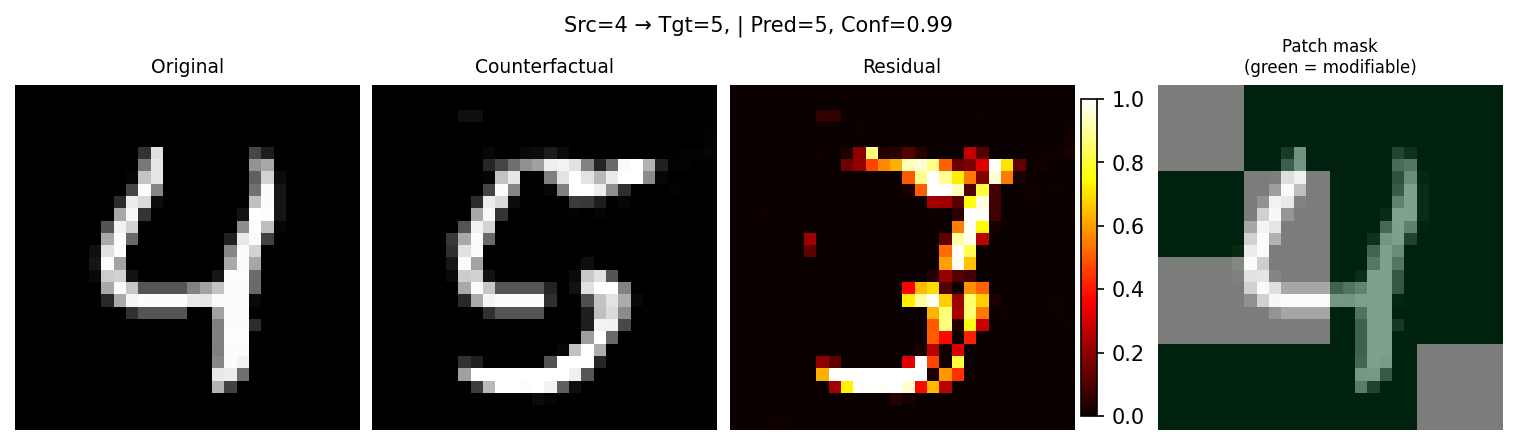
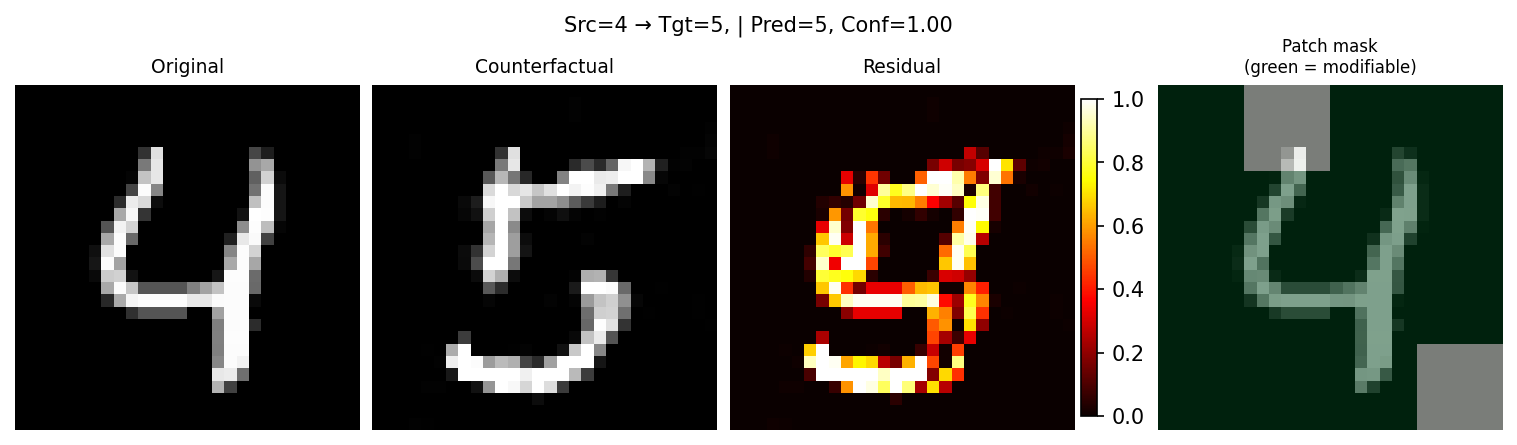
mnist gradio works with regex parser

diff --git a/conditional_counteRGAN/mnist/gradio_app.py b/conditional_counteRGAN/mnist/gradio_app.py
@@ -1,0 +1,313 @@
+#!/usr/bin/env python3
+import os
+import json
+import re
+import random
+import torch
+import torchvision
+from torchvision import transforms, datasets
+import gradio as gr
+import numpy as np
+from typing import Tuple, List, Optional
+from config import Config as cfg
+
+# optional: LLM client
+try:
+    import openai
+except Exception:
+    openai = None
+
+# Import your eval utils (assumes eval_utils.py is in same folder / on PYTHONPATH)
+import eval_utils as eval
+
+# --- Configuration (adjust or read from config.py) ---
+PATCH_SIZE = cfg.patch_size                 # your working patch size (7 -> 4x4 grid)
+MIN_MODIFIABLE = cfg.min_modifiable_patches                # minimum patches if user doesn't choose enough
+MAX_MODIFIABLE = cfg.max_modifiable_patches             # optional cap (None -> half)
+DEVICE = cfg.device
+
+# MNIST dataset (unpadded, same transforms your pipeline expects)
+transform = transforms.Compose([
+        transforms.ToTensor(),
+        transforms.Normalize((0.5,), (0.5,))  # [-1,1]
+    ])
+
+mnist_test = datasets.MNIST(cfg.data_dir, train=False, transform=transform, download=False)
+
+# Utility to pick a sample for a given source digit
+def pick_sample_by_digit(dataset, digit: int, seed: Optional[int]=None) -> Tuple[torch.Tensor, int]:
+    if seed is not None:
+        random.seed(seed)
+    indices = [i for i, t in enumerate(dataset.targets) if int(t) == int(digit)]
+    if not indices:
+        raise ValueError("No sample of that digit found.")
+    idx = random.choice(indices)
+    img, label = dataset[idx]
+    # img is normalized (-1,1) as your pipeline expects
+    return img.unsqueeze(0), int(label)        # shape (1,1,28,28), label
+
+# Simple fallback parser for user free-text: extracts first digit as target and list of ints as patches
+def parse_user_input_fallback(text: str, total_patches: int) -> Tuple[int, List[int], str]:
+    text_lower = text.lower()
+    # Try explicit 'target' or 'to' phrase first
+    target_match = re.search(r"(?:target|to)\s*([0-9])", text_lower)
+    if target_match:
+        target = int(target_match.group(1))
+    else:
+        # fallback: first digit that appears
+        digits = re.findall(r"\b([0-9])\b", text)
+        target = int(digits[0]) if digits else None
+
+    # Extract patch numbers after keyword 'patch' (if present)
+    patch_section = re.split(r"patch(?:es)?", text_lower)
+    if len(patch_section) > 1:
+        patch_text = patch_section[1]
+    else:
+        patch_text = text_lower
+    patch_candidates = re.findall(r"\b([0-9]{1,2})\b", patch_text)
+    patches_int = [int(p) for p in patch_candidates if 0 <= int(p) < total_patches]
+
+    if target is None:
+        return None, [], "Couldn't detect a target digit. Please include a digit 0–9 as the desired target."
+    if len(patches_int) == 0:
+        return target, [], "No patch indices detected — choosing random allowed patches."
+    return target, sorted(list(set(patches_int))), ""
+
+
+# LLM parsing helper (optional). Returns (target:int, patches:list, message:str)
+def parse_user_input_llm(user_text: str, total_patches: int) -> Tuple[Optional[int], List[int], str]:
+    # If openai not available, fall back
+    if openai is None or os.environ.get("OPENAI_API_KEY", "") == "":
+        return parse_user_input_fallback(user_text, total_patches)
+
+    openai.api_key = os.environ["OPENAI_API_KEY"]
+    # prompt instructing the model to return JSON only
+    prompt = f"""
+You are a strict parser. Input is a short user instruction answering:
+  "Into which digit do you want to transform this?" and "Which patch numbers are allowed (list)?"
+
+Return a single JSON object on the reply ONLY with the keys:
+  "target": integer between 0 and 9,
+  "patches": array of integers (each between 0 and {total_patches-1}).
+
+If the user does not provide patches, return an empty list for "patches".
+If the target isn't present, set "target": null.
+
+Do not include any commentary. Example output:
+  {{ "target": 3, "patches": [1,5,6] }}
+Now parse this user message:
+---
+{user_text}
+"""
+    try:
+        resp = openai.ChatCompletion.create(
+            model="gpt-4o-mini",   # choose a small/reasonable model; change as needed
+            messages=[{"role":"user","content":prompt}],
+            max_tokens=150,
+            temperature=0.0
+        )
+        text = resp["choices"][0]["message"]["content"].strip()
+        # Attempt to load JSON
+        obj = json.loads(text)
+        target = obj.get("target", None)
+        patches = obj.get("patches", [])
+        # validate
+        patches_valid = [int(p) for p in patches if isinstance(p, (int,float)) or (isinstance(p,str) and p.isdigit())]
+        patches_valid = [p for p in patches_valid if 0 <= p < total_patches]
+        return int(target) if target is not None else None, patches_valid, ""
+    except Exception as e:
+        return parse_user_input_fallback(user_text, total_patches)  # fallback with helpful message
+
+# Helper to build mask from explicit list of patches (returns batch_mask, single_mask)
+def make_mask_from_patch_list(x_batch: torch.Tensor, patch_size: int, allowed_patches: List[int], device) -> Tuple[torch.Tensor, torch.Tensor]:
+    # use your eval_utils function create behavior
+    batch_mask, single_mask = eval.build_patch_mask_for_batch(x_batch, patch_size=patch_size, device=device,
+                                                          shared_per_batch=True, modifiable_patches=allowed_patches,
+                                                          return_single_mask=True, randomize_per_sample=False)
+    return batch_mask, single_mask
+
+# Main Gradio function: shows MNIST sample and patch-grid first
+def get_sample_and_grid(source_req_text: str):
+    """
+    Interprets user natural language to pick a source digit.
+    Returns: original_image (PIL/np), patch_grid_path, source_digit
+    """
+    # parse source digit (first digit found) else pick random
+    m = re.search(r"\b([0-9])\b", source_req_text)
+    if m:
+        src = int(m.group(1))
+    else:
+        src = int(random.choice(range(10)))
+
+    x, label = pick_sample_by_digit(mnist_test, src)
+    save_dir = "./gradio_tmp"
+    os.makedirs(save_dir, exist_ok=True)
+
+    # visualize normalized → [0,1]
+    x_vis = ((x + 1.0) / 2.0).detach().cpu()
+    img_np = x_vis[0].squeeze().numpy()
+
+    # save both the original image and the patch grid overlay
+    orig_path = os.path.join(save_dir, "original_sample.png")
+    patch_grid_path = os.path.join(save_dir, "patch_grid.png")
+
+    torchvision.utils.save_image(x_vis, orig_path)  # save denormalized image
+    eval.visualize_patch_grid(x_vis[0], patch_size=PATCH_SIZE, save_path=patch_grid_path)
+
+    return orig_path, patch_grid_path, src
+
+
+# Callback to handle user's NL answer (target + patches). This uses LLM parse if key present else fallback
+def handle_user_answer(user_text: str, sample_source_img, sample_label, batch_tensor_path=None):
+    """
+    user_text: NL answer indicating target and patches
+    sample_source_img, sample_label: the original chosen sample returned from get_sample_and_grid
+    """
+    # sample_source_img expected as torch Tensor in previous pipeline? We'll instead re-pick sample here to get tensors.
+    # For simplicity we will pick a sample for sample_label:
+    x, label = pick_sample_by_digit(mnist_test, sample_label)
+    bs = 1
+    total_patches = (28 // PATCH_SIZE) * (28 // PATCH_SIZE)
+
+    # parse user_text with LLM (if available) else fallback
+    target, patches, msg = parse_user_input_llm(user_text, total_patches)
+    if target is None:
+        return None, f"Could not parse target: {msg}"
+
+    # if user provided zero patches, choose random between MIN and MAX
+    if len(patches) == 0:
+        max_p = MAX_MODIFIABLE if MAX_MODIFIABLE is not None else total_patches // 2
+        k = random.randint(MIN_MODIFIABLE, max(MIN_MODIFIABLE, max_p))
+        patches = sorted(random.sample(range(total_patches), k))
+
+    # Validate patches
+    patches = sorted([p for p in patches if 0 <= p < total_patches])
+    if len(patches) < MIN_MODIFIABLE:
+        return None, f"Too few allowed patches ({len(patches)}). Minimum required is {MIN_MODIFIABLE}."
+
+    # Build masks (shared per batch since we have 1 sample)
+    batch_mask, single_mask = make_mask_from_patch_list(x, PATCH_SIZE, patches, DEVICE)
+
+    # Call your generator/classifier via save_user_modification_example (which uses generator+classifier)
+    save_dir = "./gradio_tmp"
+    os.makedirs(save_dir, exist_ok=True)
+    # we must pass generator and classifier objects; assume user has loaded them into global variables below
+    global GLOB_GENERATOR, GLOB_CLASSIFIER
+    if GLOB_GENERATOR is None or GLOB_CLASSIFIER is None:
+        return None, "Generator / classifier not loaded on server. Start the app with models available."
+
+    # call the helper in eval_utils (it will save the image to disk)
+    eval.save_user_modification_example(
+        x_vis=((x + 1.0) / 2.0).detach().cpu(),
+        simulated_patches=patches,
+        generator=GLOB_GENERATOR,
+        classifier=GLOB_CLASSIFIER,
+        y_true=torch.tensor([label], device=DEVICE),
+        y_target=torch.tensor([target], device=DEVICE),
+        device=DEVICE,
+        save_dir=save_dir,
+        patch_size=PATCH_SIZE
+    )
+
+    # also produce the sample heatmap (the more detailed one) for convenience
+    # build a batch mask and generate CF to build the sample heatmap images using make_and_save_heatmaps helpers:
+    with torch.no_grad():
+        raw_res, masked_res = GLOB_GENERATOR(x.to(DEVICE), torch.tensor([target], device=DEVICE), batch_mask.to(DEVICE))
+        x_cf = torch.clamp(x.to(DEVICE) + masked_res, -1.0, 1.0)
+    x_vis = ((x + 1.0) / 2.0).detach().cpu()
+    xcf_vis = ((x_cf + 1.0) / 2.0).detach().cpu()
+    mask_vis = batch_mask.detach().cpu()
+    metrics = eval.compute_masked_metrics(raw_res, masked_res, x.to(DEVICE), x_cf, batch_mask.to(DEVICE),
+                                      GLOB_CLASSIFIER, torch.tensor([label], device=DEVICE), torch.tensor([target], device=DEVICE), DEVICE)
+    # save sample heatmap
+    eval.make_and_save_heatmaps(x_vis, xcf_vis, mask_vis, metrics, save_dir=save_dir,
+                             y_true=torch.tensor([label]), y_target=torch.tensor([target]),
+                             classifier=GLOB_CLASSIFIER, device=DEVICE, max_samples=1)
+
+    # Return file path(s) for Gradio to show
+    return {
+        "simulated_example": os.path.join(save_dir, "simulated_user_modification.png"),
+        "sample_heatmap": os.path.join(save_dir, "sample_0_src{}_tgt{}.png".format(label, target)),
+        "patch_grid": os.path.join(save_dir, "patch_grid.png")
+    }, f"Done. transformed {label} → {target} using patches {patches} (parsed)."
+
+# --- Globals for models (load your trained models here) ---
+GLOB_GENERATOR = None
+GLOB_CLASSIFIER = None
+
+def load_models(generator_path: str, classifier_path: str, device=DEVICE):
+    global GLOB_GENERATOR, GLOB_CLASSIFIER
+    # You must import your actual generator/classifier classes
+    from models.generator import ResidualGenerator
+    from models.classifier import CNNClassifier
+    # instantiate with same shapes
+    GLOB_GENERATOR = ResidualGenerator(img_shape=(1,28,28)).to(device)
+    GLOB_CLASSIFIER = CNNClassifier().to(device)
+    if os.path.exists(generator_path):
+        GLOB_GENERATOR.load_state_dict(torch.load(generator_path, map_location=device))
+    if os.path.exists(classifier_path):
+        GLOB_CLASSIFIER.load_state_dict(torch.load(classifier_path, map_location=device))
+    GLOB_GENERATOR.eval()
+    GLOB_CLASSIFIER.eval()
+    print("Loaded models.")
+
+# --- Build minimal Gradio interface ---
+def build_app(generator_path: str, classifier_path: str):
+    load_models(generator_path, classifier_path, DEVICE)
+
+    with gr.Blocks() as demo:
+        gr.Markdown("## CounterGAN LLM-enabled demo (minimal)\n"
+                    "Enter something like: 'Show me a 7' then press `Get sample`. "
+                    "Then tell the system: 'Make it a 3 and allow patches 1,5,6' in the second box.")
+
+        with gr.Row():
+            with gr.Column():
+                src_text = gr.Textbox(label="Pick source digit (natural language, e.g. 'show me a 7')",
+                                      value="show me a 7")
+                btn_sample = gr.Button("Get sample")
+            with gr.Row():
+                sample_img = gr.Image(label="Original MNIST digit", type="filepath", width=224, height=224)
+                patch_grid_display = gr.Image(label="Patch grid (patch indices)", type="filepath", width=224, height=224)
+                chosen_label_display = gr.Textbox(label="Selected source label", interactive=False)
+
+            with gr.Column():
+                user_answer = gr.Textbox(label="Your target & allowed patches (NL)", value="Target 3 patches 1,5,6")
+                btn_apply = gr.Button("Apply transformation (LLM parse)")
+                output_text = gr.Textbox(label="Status / messages", interactive=False)
+                out_sim_example = gr.Image(label="Simulated modification (allowed patches)")
+                out_sample_heatmap = gr.Image(label="Sample heatmap (Original/CF/Residual/Mask)")
+
+        # Handlers
+        def on_get_sample(txt):
+            orig_path, patch_grid_path, src = get_sample_and_grid(txt)
+            chosen_label = str(src)
+            return orig_path, patch_grid_path, chosen_label
+
+
+        btn_sample.click(fn=on_get_sample, inputs=[src_text], outputs=[sample_img, patch_grid_display, chosen_label_display])
+
+        def on_apply(ans_text, sample_label_str):
+            try:
+                sample_label = int(sample_label_str)
+            except:
+                return None, None, "No source sample chosen."
+
+            results, msg = handle_user_answer(ans_text, None, sample_label)
+            if results is None:
+                return None, None, msg
+            # return images
+            return results["simulated_example"], results["sample_heatmap"], msg
+
+        btn_apply.click(fn=on_apply, inputs=[user_answer, chosen_label_display],
+                        outputs=[out_sim_example, out_sample_heatmap, output_text])
+
+    return demo
+
+# === ENTRYPOINT ===
+if __name__ == "__main__":
+    # paths to your trained weights (adjust)
+    gen_path = cfg.generator_path
+    cls_path = cfg.classifier_path
+
+    demo = build_app(gen_path, cls_path)
+    demo.launch(server_name="0.0.0.0", share=False)

diff --git a/conditional_counteRGAN/mnist/eval_utils.py b/conditional_counteRGAN/mnist/eval_utils.py
@@ -450,7 +450,6 @@ def generate_counterfactuals(generator, classifier, x, y, y_target, mask, device
         x_cf = torch.clamp(x + masked_residual, -1.0, 1.0)
 
     return raw_residual, masked_residual, x_cf
-
 def save_user_modification_example(
     x_vis, simulated_patches, generator, classifier,
     y_true, y_target, device, save_dir, patch_size
@@ -462,12 +461,12 @@ def save_user_modification_example(
     """
     os.makedirs(save_dir, exist_ok=True)
 
-    # Take one sample
-    x_single = x_vis[0:1].to(device)  # (1,1,28,28)
+    # x_vis is already in [0,1]; re-normalize to [-1,1] for generator input
+    x_single = (x_vis[0:1].to(device) * 2.0) - 1.0  # (1,1,28,28)
     src_label = int(y_true[0].item())
     tgt_label = int(y_target[0].item())
 
-    # Create a mask directly from the simulated patch indices
+    # Create a mask from simulated patch indices
     H = W = 28
     num_patches_w = W // patch_size
     mask = torch.zeros((1, 1, H, W), device=device)
@@ -476,7 +475,7 @@ def save_user_modification_example(
         mask[:, :, i * patch_size:(i + 1) * patch_size,
              j * patch_size:(j + 1) * patch_size] = 1.0
 
-    # Generate residual and CF using the mask
+    # Generate counterfactual in the same normalized range [-1,1]
     with torch.no_grad():
         raw_residual, masked_residual = generator(x_single, torch.tensor([tgt_label], device=device), mask)
         x_cf = torch.clamp(x_single + masked_residual, -1.0, 1.0)
@@ -485,13 +484,13 @@ def save_user_modification_example(
         pred_idx = int(probs.argmax(dim=1))
         pred_conf = float(probs[0, pred_idx].item())
 
-    # Convert to [0,1] for visualization
+    # Convert back to [0,1] for visualization
     x_np = ((x_single + 1.0) / 2.0).cpu().squeeze().numpy()
     xcf_np = ((x_cf + 1.0) / 2.0).cpu().squeeze().numpy()
     diff_np = np.abs(xcf_np - x_np)
     mask_np = mask.cpu().squeeze().numpy()
 
-    # --- Figure ---
+    # Plot with same structure as heatmaps
     fig, axs = plt.subplots(1, 4, figsize=(9, 3), constrained_layout=True)
 
     axs[0].imshow(x_np, cmap="gray", vmin=0, vmax=1)
@@ -509,20 +508,20 @@ def save_user_modification_example(
 
     axs[3].imshow(x_np, cmap="gray", vmin=0, vmax=1)
     axs[3].imshow(mask_np, cmap="Greens", alpha=0.5, vmin=0, vmax=1)
-    axs[3].set_title("Patch mask", fontsize=9)
+    axs[3].set_title("Patch mask\n(green = modifiable)", fontsize=8)
     axs[3].axis("off")
 
-    # Title
     plt.suptitle(
         f"Src={src_label} → Tgt={tgt_label} | Pred={pred_idx} ({pred_conf:.2f}) | Allowed patches={simulated_patches}",
         fontsize=10, y=1.05
     )
 
-    save_path = os.path.join(save_dir, f"simulated_user_modification.png")
+    save_path = os.path.join(save_dir, "simulated_user_modification.png")
     plt.savefig(save_path, dpi=150, bbox_inches="tight")
     plt.close(fig)
 
     print(f"Saved simulated modification example: {save_path}")
+
 
 
 def evaluate_pipeline(generator, classifier, x, y, full_dataset, config):
